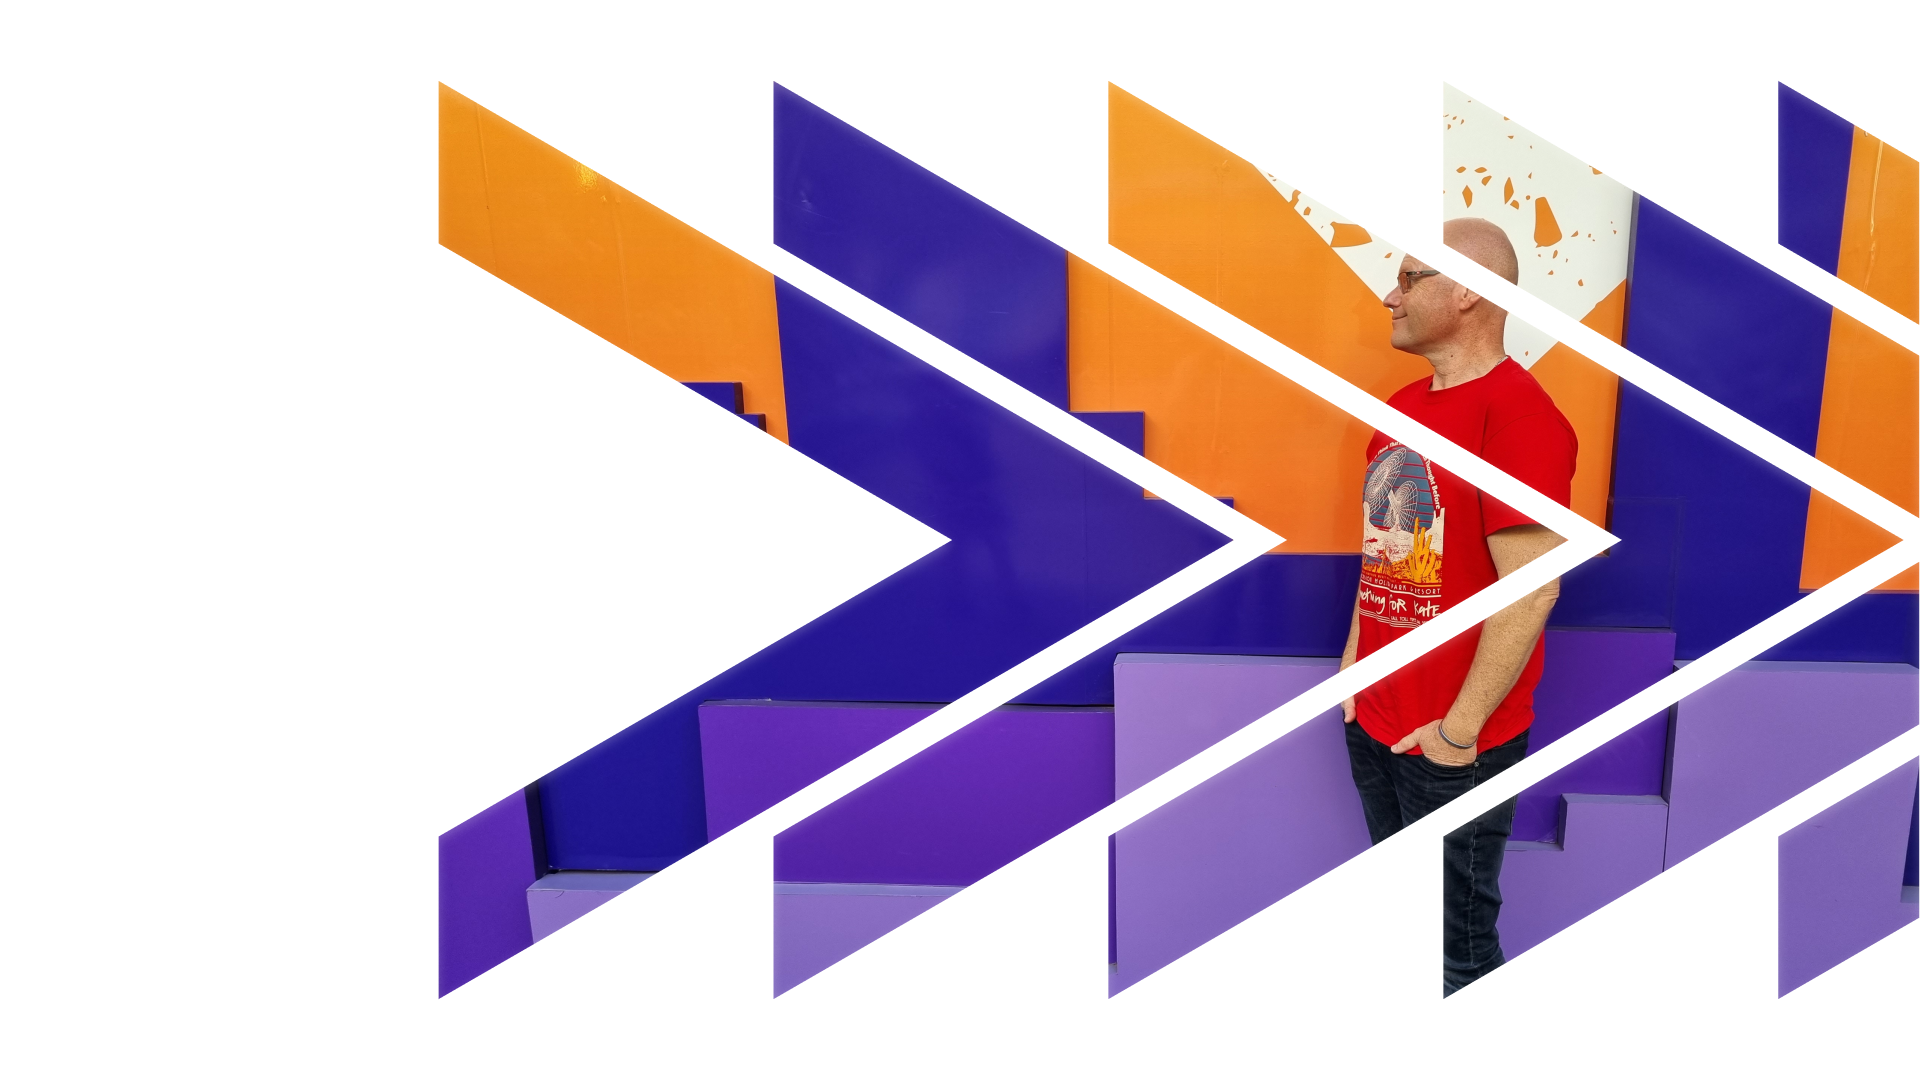
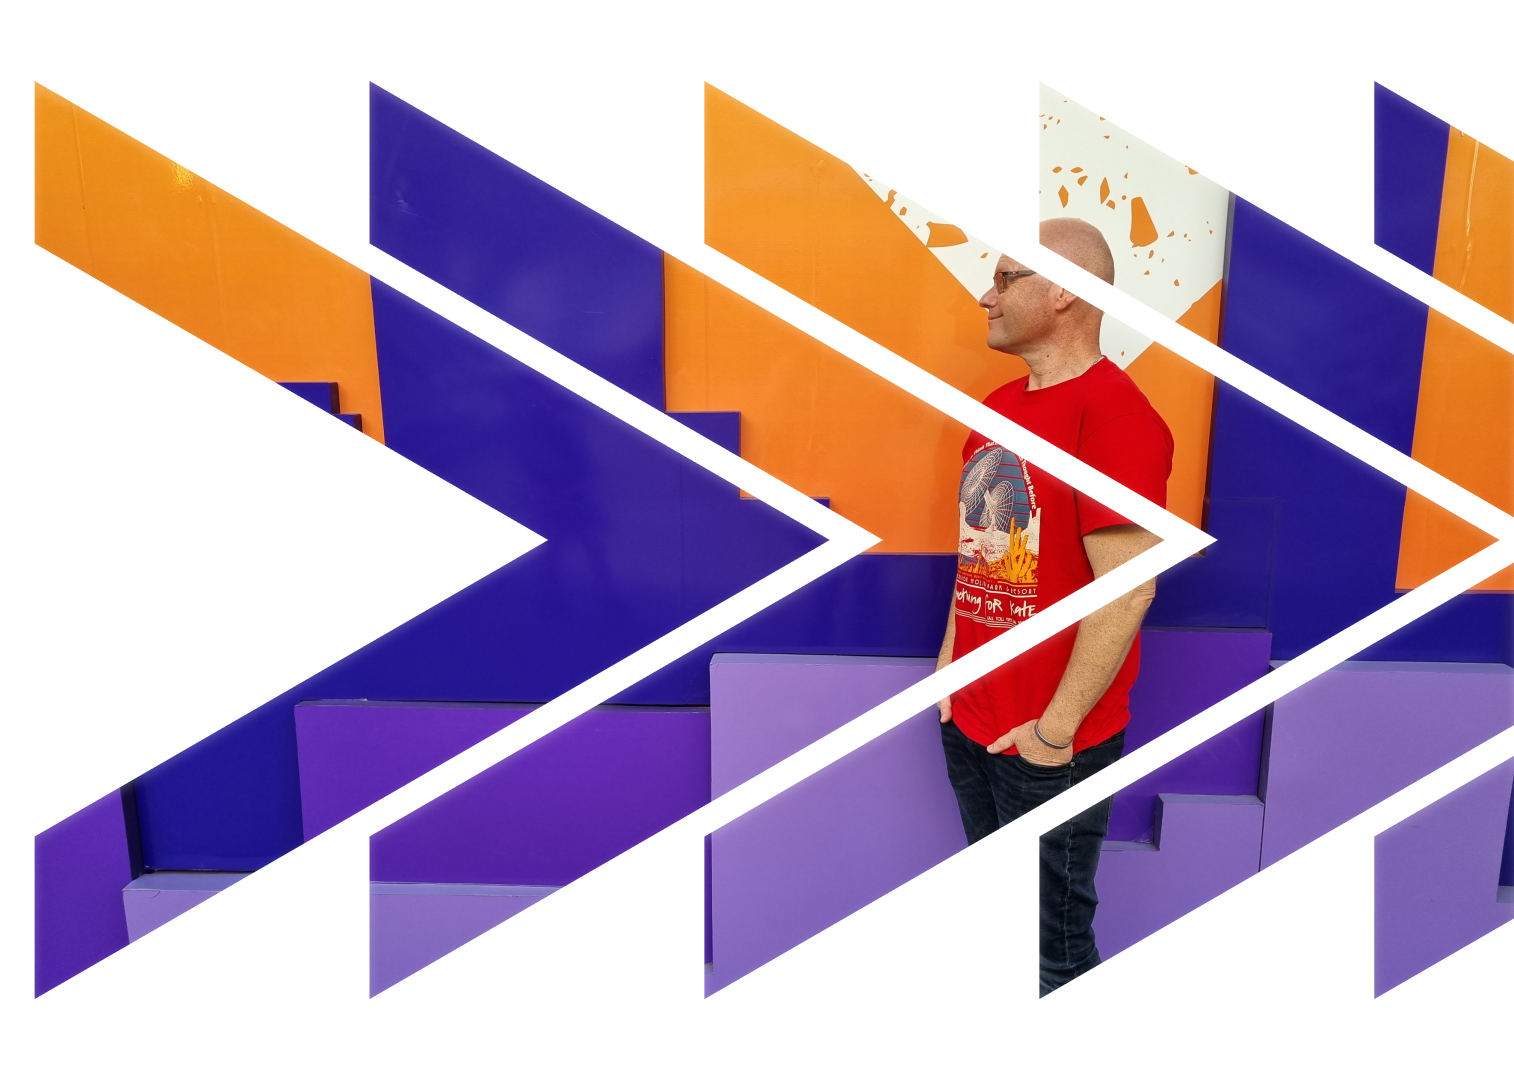
styled landing page content and hero image

diff --git a/src/pages/Home.jsx b/src/pages/Home.jsx
@@ -6,35 +6,38 @@ import heroImage from "../assets/hero-image.png";
 const Home = () => {
   return (
     <>
-      <div className="flex justify-around items-center p-2">
-        <div className="flex flex-col justify-center items-center px-2">
-          <h1 className="text-2x1 text-[#C9C9C9] text-center font-medium tracking-wide">
-            &lt; <span className="text-3xl font-semibold">SHANE KENZLER</span>{" "}
-            Frontend Developer &#47;&gt;
+      <div className="flex flex-col md:flex-row justify-center items-center text-center ">
+        <div className="w-3/4 flex flex-col justify-center items-center text-[#C9C9C9] mt-5 p-10">
+          <h1 className="text-6xl md:text-6x1 lg:text-8x1 uppercase font-medium tracking-wide p-2">
+            Frontend <span className="font-black">Developer</span>
           </h1>
-          <p className="text-lg  text-[#C9C9C9] font-light">
+          <h2 className="text-2xl md:text-5x1 font-semibold p-2">
+            &lt;SHANE KENZLER &#47;&gt;
+          </h2>
+          <p className="text-sm md:text-base lg:text-lg text-[#C9C9C9] font-light p-2">
             I design, build and deploy scalable web apps
           </p>
 
           <button
             type="button"
-            className="flex justify-between items-center border-2  border-yellow-400 px-5 py-2 text-yellow-400 text-center text-base tracking-wide gap-4 font-normal rounded-md mt-10 cursor-pointer hover:border-[#C9C9C9] hover:text-[#C9C9C9]"
+            className="flex justify-between items-center border-2 border-yellow-400 px-5 py-2 text-yellow-400 text-center text-base tracking-wide gap-4 font-normal rounded-md mt-5 cursor-pointer hover:border-[#C9C9C9] hover:text-[#C9C9C9]"
           >
             <FaGithub size={25} />
             Checkout my Github
           </button>
         </div>
-
-        <img
-          className="flex justify-end items-end w-3/5"
-          src={heroImage}
-          alt="Profile Hero Image"
-        />
+        <div className="flex justify-end items-center">
+          <img
+            className="w-full object-fill md:w-5/6"
+            src={heroImage}
+            alt="Profile Hero Image"
+          />
+        </div>
       </div>
-      <div className="flex justify-center items-center gap-4 mt-10 hover:animate-pulse">
-        <FaGithub size={24} color="#C9C9C9" />
-        <BsLinkedin size={24} color="#C9C9C9" />
-        <FaCodepen size={24} color="#C9C9C9" />
+      <div className="flex justify-center items-center gap-4 m-5">
+        <FaGithub size={28} color="#C9C9C9" />
+        <BsLinkedin size={28} color="#C9C9C9" />
+        <FaCodepen size={28} color="#C9C9C9" />
       </div>
     </>
   );

diff --git a/src/components/Navbar.jsx b/src/components/Navbar.jsx
@@ -20,7 +20,7 @@ const Navbar = () => {
               src={logo}
               alt="Design Build and Deploy Logo"
             />
-            <span className="text-[1.5rem] text-white font-logoFont tracking-wide">
+            <span className="text-lg text-white font-logoFont tracking-wide">
               design build deploy
             </span>
           </div>
@@ -52,10 +52,10 @@ const Navbar = () => {
         {mobileMenuOpen && (
           <div className="fixed right-0 z-20 bg-neutral-900 w-full p-12 flex flex-col justify-center items-center lg:hidden">
             <ul className="text-sm text-center text-white p-2">
-              <li className="px-2 border-b-2 border-yellow-400">Home</li>
-              <li className="my-2">About</li>
-              <li className="my-2">Portfolio</li>
-              <li className="my-2">Contact</li>
+              <li className="py-2 border-b-2 border-yellow-400">Home</li>
+              <li className="py-2">About</li>
+              <li className="py-2">Portfolio</li>
+              <li className="py-2">Contact</li>
             </ul>
             <button
               type="button"

diff --git a/src/index.css b/src/index.css
@@ -1,5 +1,5 @@
 @import url("https://fonts.googleapis.com/css2?family=Poppins:ital,wght@0,100;0,200;0,300;0,400;0,500;0,600;0,700;0,800;0,900;1,100;1,200;1,300;1,400;1,500;1,600;1,700;1,800;1,900&display=swap");
-@import url("https://fonts.googleapis.com/css2?family=Cedarville+Cursive&display=swap");
+@import url("https://fonts.googleapis.com/css2?family=Splash&family=The+Girl+Next+Door&display=swap");
 
 @tailwind base;
 @tailwind components;

diff --git a/tailwind.config.js b/tailwind.config.js
@@ -4,7 +4,7 @@ export default {
   theme: {
     extend: {
       fontFamily: {
-        logoFont: ['"Cedarville Cursive"', "cursive"],
+        logoFont: ['"The Girl Next Door"', "cursive"],
       },
     },
   },
